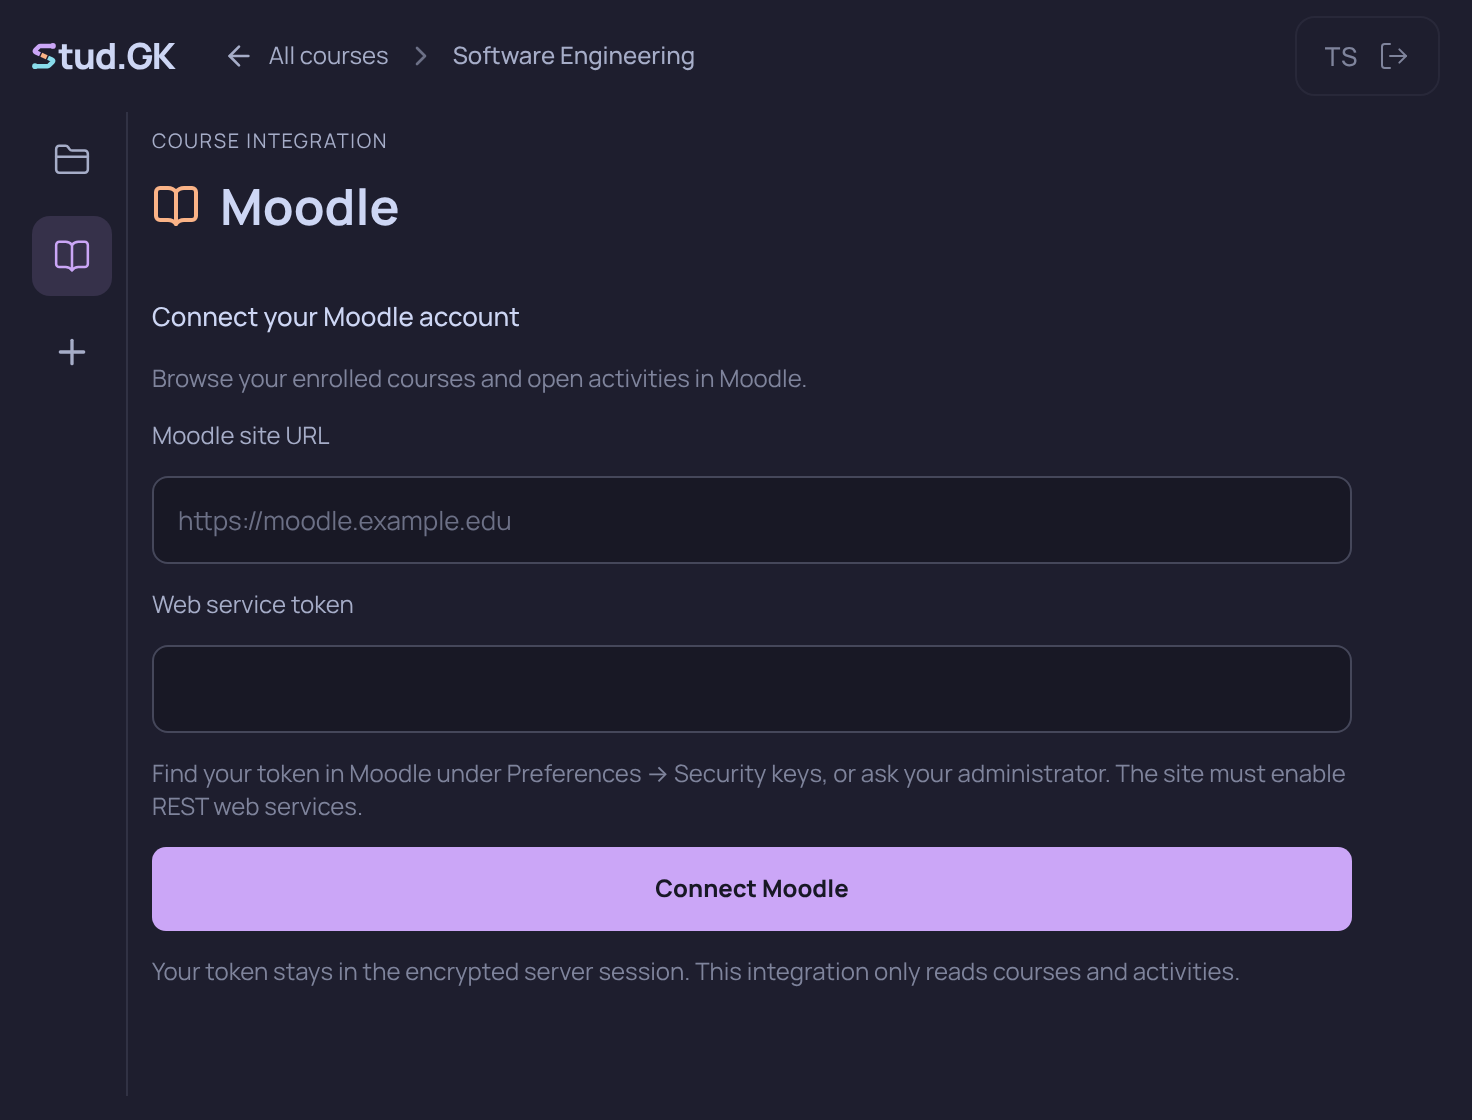
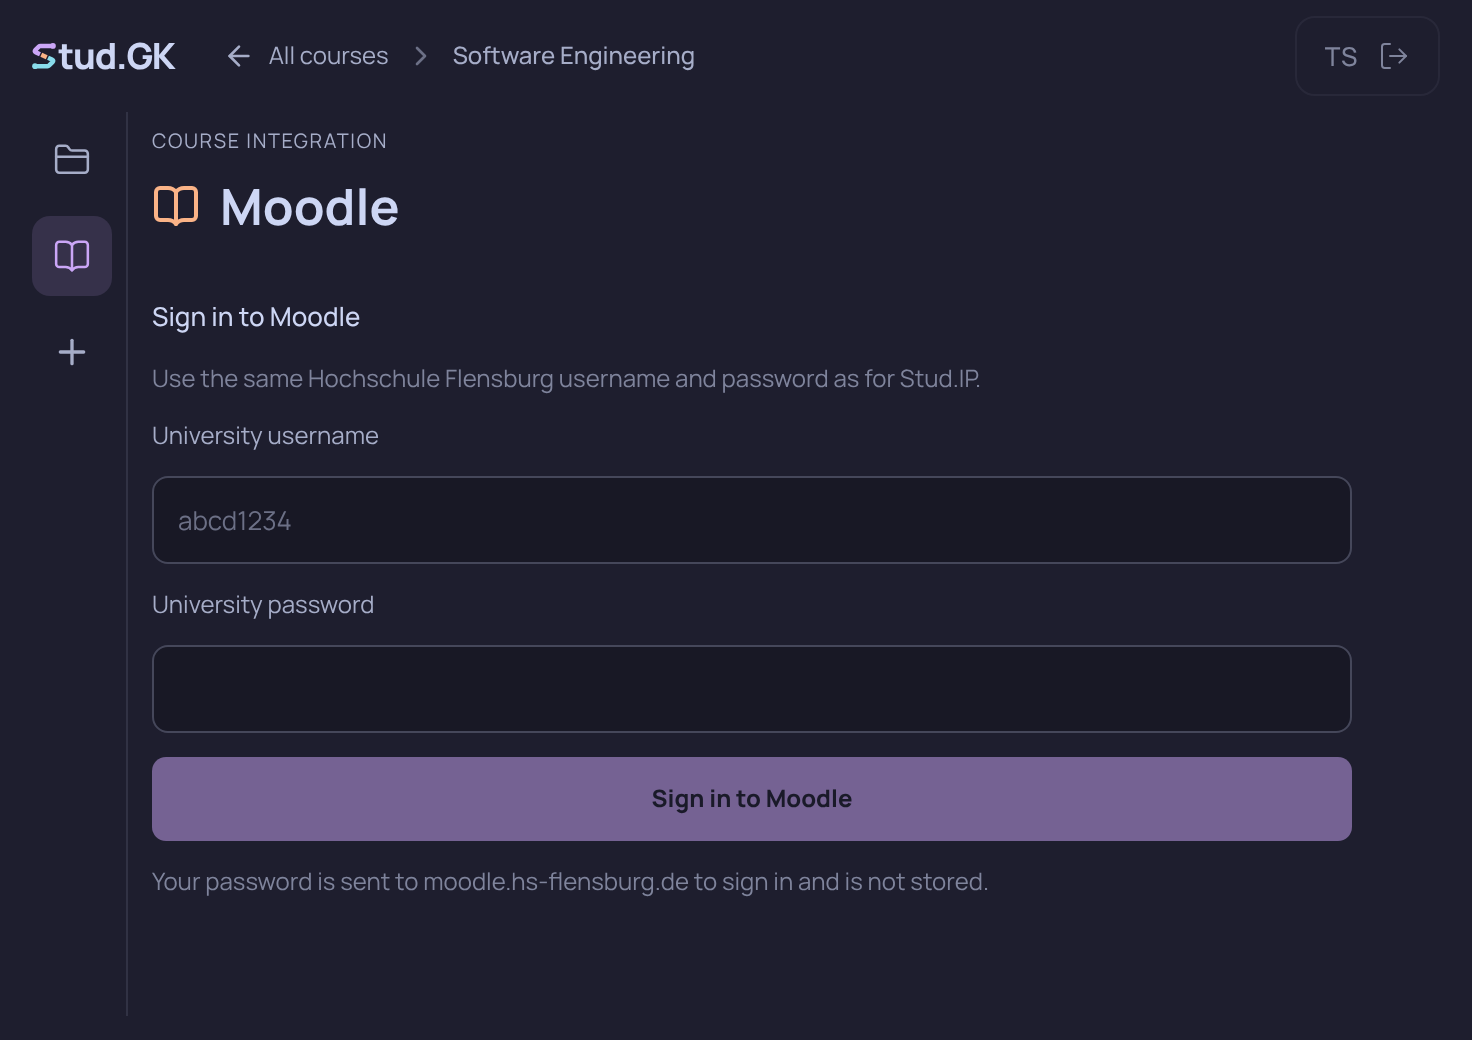
feat(moodle): sign in with university credentials

diff --git a/server/moodle.test.js b/server/moodle.test.js
@@ -4,10 +4,37 @@ import { mkdtemp, readFile, rm } from "node:fs/promises";
 import { tmpdir } from "node:os";
 import path from "node:path";
 import { CookieJar } from "tough-cookie";
-import { createMoodleClient, moodleUrl, MoodleError } from "./moodle.js";
+import { createMoodleClient, moodleUrl, MoodleError, MOODLE_SITE } from "./moodle.js";
 import { createApp } from "./app.js";
 
 const connection = { url: "https://moodle.example.edu/campus", token: "a".repeat(32) };
+test("Moodle exchanges the university password only at the campus mobile login endpoint", async () => {
+  const client = createMoodleClient(async (url, { method, body }) => {
+    assert.equal(url.href, "https://moodle.hs-flensburg.de/login/token.php");
+    assert.equal(method, "POST");
+    assert.deepEqual(Object.fromEntries(new URLSearchParams(body)), {
+      username: "abcd1234",
+      password: "password + & =",
+      service: "moodle_mobile_app",
+    });
+    return Response.json({ token: connection.token, privatetoken: "ignored" });
+  });
+  assert.deepEqual(await client.signIn("abcd1234", "password + & ="), {
+    url: MOODLE_SITE,
+    token: connection.token,
+  });
+
+  for (const response of [
+    Response.json({ errorcode: "invalidlogin", error: "password + & =" }),
+    new Response(null, { status: 307, headers: { Location: "https://other.example/login" } }),
+  ]) {
+    let requests = 0;
+    const denied = createMoodleClient(async () => { requests++; return response; });
+    await assert.rejects(denied.signIn("abcd1234", "password + & ="), error =>
+      error instanceof MoodleError && !error.message.includes("password + & ="));
+    assert.equal(requests, 1);
+  }
+});
 test("Moodle uses POST bodies, preserves installation paths and returns enrolled courses", async () => {
   const calls = [];
   const client = createMoodleClient(async (url, options) => {
@@ -54,7 +81,15 @@ test("Moodle routes require login, isolate sessions, encrypt tokens and disconne
   const instance = await createApp({ dataDir: directory, autoSync: false,
     authenticate: async username => ({ user: { id: username, name: username }, jar: new CookieJar() }),
     getSnapshot: async () => ({ courses: [], resources: [] }),
-    moodleClient: { courses: async () => ({ site: "Campus", courses: [{ id: 42, title: "SE", shortname: "SE" }] }), contents: async () => ({ sections: [] }) },
+    moodleClient: {
+      signIn: async (username, password) => {
+        assert.equal(username, "alice");
+        assert.equal(password, "moodle fixture password");
+        return { url: MOODLE_SITE, token: connection.token };
+      },
+      courses: async () => ({ site: "Campus", courses: [{ id: 42, title: "SE", shortname: "SE" }] }),
+      contents: async () => ({ sections: [] }),
+    },
   });
   const server = instance.app.listen(0, "127.0.0.1");
   await new Promise(r => server.once("listening", r));
@@ -66,10 +101,20 @@ test("Moodle routes require login, isolate sessions, encrypt tokens and disconne
     assert.equal((await request("/api/moodle/courses")).status, 401);
     const login = await request("/api/auth/login", "", { username: "alice", password: "fixture" });
     const cookie = login.headers.getSetCookie()[0].split(";")[0];
-    assert.equal((await request("/api/moodle/connect", cookie, connection)).status, 200);
+    assert.equal((await request("/api/moodle/connect", cookie, connection)).status, 400);
+    const connected = await request("/api/moodle/connect", cookie, {
+      username: "alice",
+      password: "moodle fixture password",
+      url: "https://other.example/",
+    });
+    assert.equal(connected.status, 200);
+    assert.ok(!(await connected.text()).includes(connection.token));
     const result = await request("/api/moodle/courses", cookie);
     assert.equal((await result.json()).connected, true);
     assert.ok(!(await readFile(path.join(directory, "sessions.enc"), "utf8")).includes(connection.token));
+    const sessions = await new Promise((resolve, reject) =>
+      instance.store.all((error, values) => error ? reject(error) : resolve(values)));
+    assert.ok(!JSON.stringify(sessions).includes("moodle fixture password"));
     const other = await request("/api/auth/login", "", { username: "bob", password: "fixture" });
     const otherCookie = other.headers.getSetCookie()[0].split(";")[0];
     assert.equal((await (await request("/api/moodle/courses", otherCookie)).json()).connected, false);

diff --git a/src/MoodleSection.tsx b/src/MoodleSection.tsx
@@ -7,8 +7,8 @@ export function MoodleSection(props: { storageKey: string; demo: boolean }) {
   const [catalog, setCatalog] = createSignal<MoodleCourses | null>(null);
   const [contents, setContents] = createSignal<MoodleContents | null>(null);
   const [course, setCourse] = createSignal("");
-  const [url, setUrl] = createSignal("");
-  const [token, setToken] = createSignal("");
+  const [username, setUsername] = createSignal("");
+  const [password, setPassword] = createSignal("");
   const [busy, setBusy] = createSignal(false);
   const [error, setError] = createSignal("");
   const controller = new AbortController();
@@ -47,20 +47,22 @@ export function MoodleSection(props: { storageKey: string; demo: boolean }) {
       <Show when={!catalog() && !props.demo}>
         <form class="nextcloud-form moodle-connect" onSubmit={e => {
           e.preventDefault();
+          if (busy()) return;
+          const credentials = { username: username().trim(), password: password() };
+          setPassword("");
           void run(async () => {
-            const data = await api<MoodleCourses>("/api/moodle/connect", { url: url(), token: token() }, controller.signal);
-            setToken(""); setCatalog(data); setContents(null); setCourse("");
+            const data = await api<MoodleCourses>("/api/moodle/connect", credentials, controller.signal);
+            setCatalog(data);
           });
         }}>
-          <h3>Connect your Moodle account</h3>
-          <p class="course-section-notice">Browse your enrolled courses and open activities in Moodle.</p>
-          <label for="moodle-url">Moodle site URL</label>
-          <input id="moodle-url" type="url" placeholder="https://moodle.example.edu" required value={url()} onInput={e => setUrl(e.currentTarget.value)} disabled={busy()} />
-          <label for="moodle-token">Web service token</label>
-          <input id="moodle-token" type="password" autocomplete="off" required value={token()} onInput={e => setToken(e.currentTarget.value)} disabled={busy()} />
-          <p class="course-section-notice">Find your token in Moodle under Preferences → Security keys, or ask your administrator. The site must enable REST web services.</p>
-          <button class="primary-button" disabled={busy()} type="submit">{busy() ? "Connecting…" : "Connect Moodle"}</button>
-          <p class="course-section-notice">Your token stays in the encrypted server session. This integration only reads courses and activities.</p>
+          <h3>Sign in to Moodle</h3>
+          <p class="course-section-notice">Use the same Hochschule Flensburg username and password as for Stud.IP.</p>
+          <label for="moodle-username">University username</label>
+          <input id="moodle-username" autocomplete="username" placeholder="abcd1234" required value={username()} onInput={e => setUsername(e.currentTarget.value)} disabled={busy()} />
+          <label for="moodle-password">University password</label>
+          <input id="moodle-password" type="password" autocomplete="current-password" required value={password()} onInput={e => setPassword(e.currentTarget.value)} disabled={busy()} />
+          <button class="primary-button" disabled={busy() || !username().trim() || !password()} type="submit">{busy() ? "Signing in…" : "Sign in to Moodle"}</button>
+          <p class="course-section-notice">Your password is sent to moodle.hs-flensburg.de to sign in and is not stored.</p>
         </form>
       </Show>
       <Show when={catalog()}>

diff --git a/server/moodle.js b/server/moodle.js
@@ -1,6 +1,8 @@
 import { load } from "cheerio";
 import { publicRequest } from "./public-http.js";
 
+export const MOODLE_SITE = "https://moodle.hs-flensburg.de/";
+
 export class MoodleError extends Error {
   constructor(message, status = 502) { super(message); this.status = status; }
 }
@@ -14,26 +16,49 @@ export function moodleUrl(value) {
 }
 const text = (value) => typeof value === "string" ? load(value).text().trim() : "";
 export function createMoodleClient(request = publicRequest) {
-  async function call(connection, fn, params = {}) {
-    const url = new URL("webservice/rest/server.php", moodleUrl(connection.url));
-    let response, data;
+  async function post(url, fields) {
     try {
-      response = await request(url, {
+      const response = await request(url, {
         method: "POST",
         headers: { "Content-Type": "application/x-www-form-urlencoded", Accept: "application/json" },
-        body: new URLSearchParams({ wstoken: connection.token, wsfunction: fn, moodlewsrestformat: "json", ...params }).toString(),
+        body: new URLSearchParams(fields).toString(),
         signal: AbortSignal.timeout(20000),
       });
       if (!response.ok) { await response.body?.cancel(); throw new Error(); }
-      data = await response.json();
-    } catch { throw new MoodleError("Could not connect to Moodle. Check the site URL and try again."); }
+      return await response.json();
+    } catch {
+      throw new MoodleError("Could not reach Moodle. Try again shortly.");
+    }
+  }
+  async function call(connection, fn, params = {}) {
+    const url = new URL("webservice/rest/server.php", moodleUrl(connection.url));
+    const data = await post(url, {
+      wstoken: connection.token,
+      wsfunction: fn,
+      moodlewsrestformat: "json",
+      ...params,
+    });
     if (data?.exception || data?.errorcode) {
       const invalid = ["invalidtoken", "accessexception", "requireloginerror"].includes(data.errorcode);
-      throw new MoodleError(invalid ? "Moodle rejected the token or its permissions. Check your web service access." : "Moodle could not load this data. Check the service permissions.", invalid ? 403 : 502);
+      throw new MoodleError(invalid ? "Moodle denied access. Sign in again if your connection has expired." : "Moodle could not load this data. Try again shortly.", invalid ? 403 : 502);
     }
     return data;
   }
   return {
+    async signIn(username, password) {
+      const data = await post(new URL("login/token.php", MOODLE_SITE), {
+        username,
+        password,
+        service: "moodle_mobile_app",
+      });
+      if (data?.errorcode === "invalidlogin")
+        throw new MoodleError("Moodle rejected your university username or password.", 403);
+      if (data?.errorcode === "passwordisexpired")
+        throw new MoodleError("Your university password has expired. Change it before signing in to Moodle.", 403);
+      if (typeof data?.token !== "string" || !/^[a-zA-Z0-9]{16,128}$/.test(data.token))
+        throw new MoodleError("Moodle could not sign you in. Check that you can sign in on the university's Moodle site.");
+      return { url: MOODLE_SITE, token: data.token };
+    },
     async courses(connection) {
       const site = await call(connection, "core_webservice_get_site_info");
       if (!Number.isSafeInteger(site?.userid) || site.userid <= 0) throw new MoodleError("Moodle returned invalid account data.");

diff --git a/server/moodle-routes.js b/server/moodle-routes.js
@@ -1,5 +1,7 @@
 import { Router } from "express";
-import { createMoodleClient, moodleUrl, MoodleError } from "./moodle.js";
+import { rateLimit } from "express-rate-limit";
+import { createMoodleClient, MoodleError } from "./moodle.js";
+import { validateCredentials } from "./login.js";
 import { moodleDemo } from "../shared/moodle.js";
 import { call } from "./session-calls.js";
 
@@ -7,12 +9,25 @@ export function moodleRoutes(requireLogin, client = createMoodleClient()) {
   const router = Router();
   router.get("/demo", (req, res) => res.json(moodleDemo));
   router.use(requireLogin);
-  router.post("/connect", async (req, res) => {
-    const url = moodleUrl(req.body?.url).href;
-    const token = req.body?.token;
-    if (typeof token !== "string" || !/^[a-zA-Z0-9]{16,128}$/.test(token)) throw new MoodleError("Enter a valid Moodle web service token.", 400);
-    const connection = { url, token };
+  const signInLimiter = rateLimit({
+    windowMs: 15 * 60 * 1000,
+    limit: 10,
+    standardHeaders: "draft-8",
+    legacyHeaders: false,
+    skipSuccessfulRequests: true,
+    message: { error: "Too many Moodle sign-in attempts. Try again in 15 minutes." },
+  });
+  router.post("/connect", signInLimiter, async (req, res) => {
+    let credentials;
+    try {
+      credentials = validateCredentials(req.body?.username, req.body?.password);
+    } catch {
+      throw new MoodleError("Enter your university username and password.", 400);
+    }
+    const connection = await client.signIn(credentials.username, credentials.password);
     const result = await client.courses(connection);
+    if (req.context.revoked || req.context.expiresAt <= Date.now())
+      throw new MoodleError("Your Stud.IP session has expired. Sign in again.", 401);
     req.session.moodle = connection;
     await call(req.session, "save");
     res.json(result);

diff --git a/README.md b/README.md
@@ -226,12 +226,10 @@ Palette: [Catppuccin](https://catppuccin.com/palette/). Icons: Lucide. Font: Man
 
 ### Moodle
 
-Add the **Moodle** tab from a course's sidebar. Sign in to Stud.IP, enter your Moodle HTTPS site URL and a personal web service token, then select an enrolled Moodle course. The selection is remembered separately for each Stud.IP course in this browser. Refresh reloads the course list and selected course contents.
-
-The Moodle site must enable the REST protocol and allow the token to call `core_webservice_get_site_info`, `core_enrol_get_users_courses` and `core_course_get_contents`. Tokens may be available under Moodle's **Preferences → Security keys**, depending on site configuration; otherwise ask the administrator. See the [Moodle web service client documentation](https://docs.moodle.org/dev/Creating_a_web_service_client).
+Add the **Moodle** tab from a course's sidebar. Sign in with the same Hochschule Flensburg username and password you use for Stud.IP, then select an enrolled Moodle course. The browser remembers the selection for each Stud.IP course. Refresh reloads the course list and the selected course contents.
 
 Stud.GK reads visible sections and activities. Activity links open Moodle in the browser, where a Moodle login may be required for files, assignments and quizzes. Submissions, grades, file downloads inside Stud.GK and automatic Moodle change notifications are not included.
 
-The token is sent in HTTPS POST bodies and saved only in the existing encrypted server session, never in browser storage or API responses. Only public HTTPS hosts on the default port are supported; redirects are rejected. Disconnect removes it from that session. Signing out or session expiry also ends the Moodle connection, so signing in again requires reconnecting. One Moodle site can be connected per Stud.GK session.
+Stud.GK sends the password to the university's Moodle mobile sign-in endpoint over HTTPS and does not store it. Moodle issues an API token automatically, which Stud.GK keeps in its encrypted server session. Disconnect, signing out of Stud.IP and session expiry end the local Moodle connection.
 
 The app's demo mode includes a labelled sample Moodle course without credentials or upstream requests.
